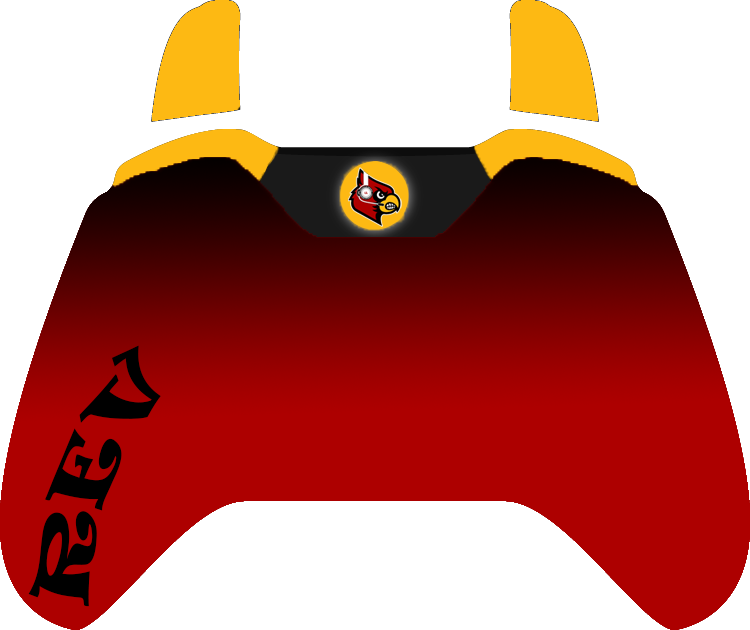
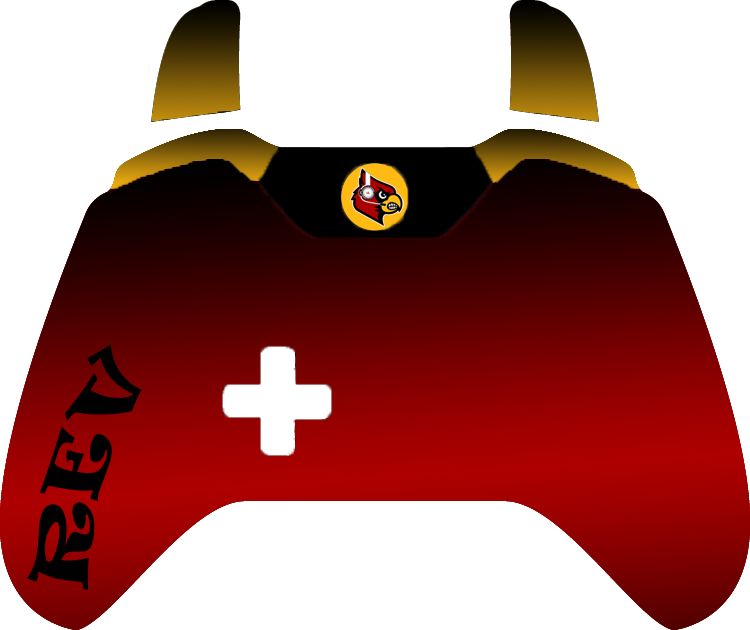
Add files via upload

diff --git a/Finalrev/Finalrev.css b/Finalrev/Finalrev.css
@@ -103,14 +103,6 @@
     left: 288px;
 }
 
-.xbox .dpad {
-    position: absolute;
-    width: 110px;
-    height: 111px;
-    top: 345px;
-    left: 223px;
-}
-
 .xbox .face {
     background: url(xbox-assets/dpad.svgz);
     position: absolute;
